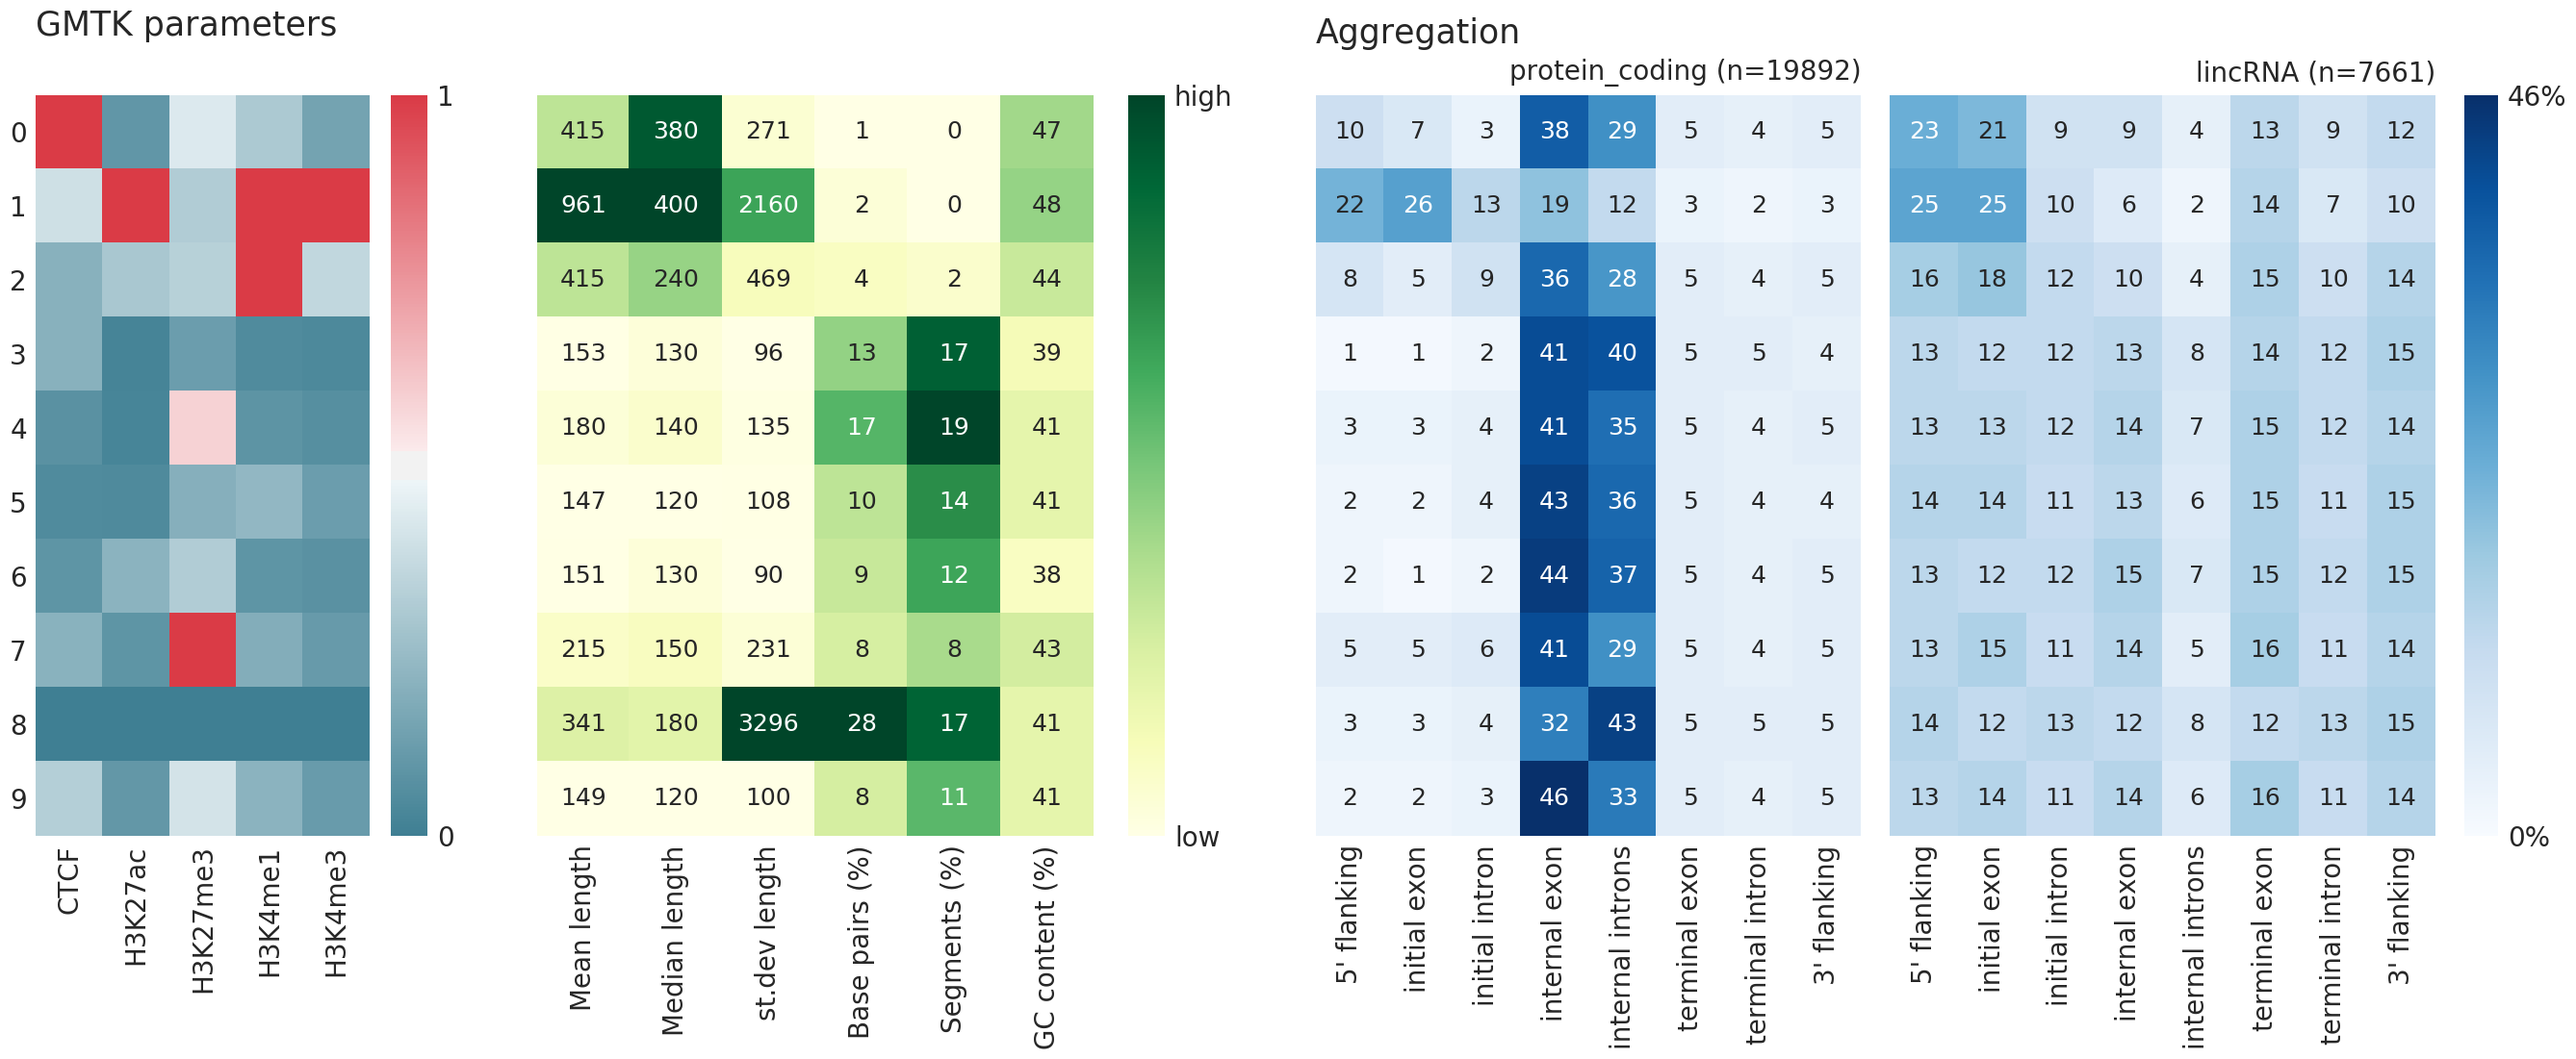
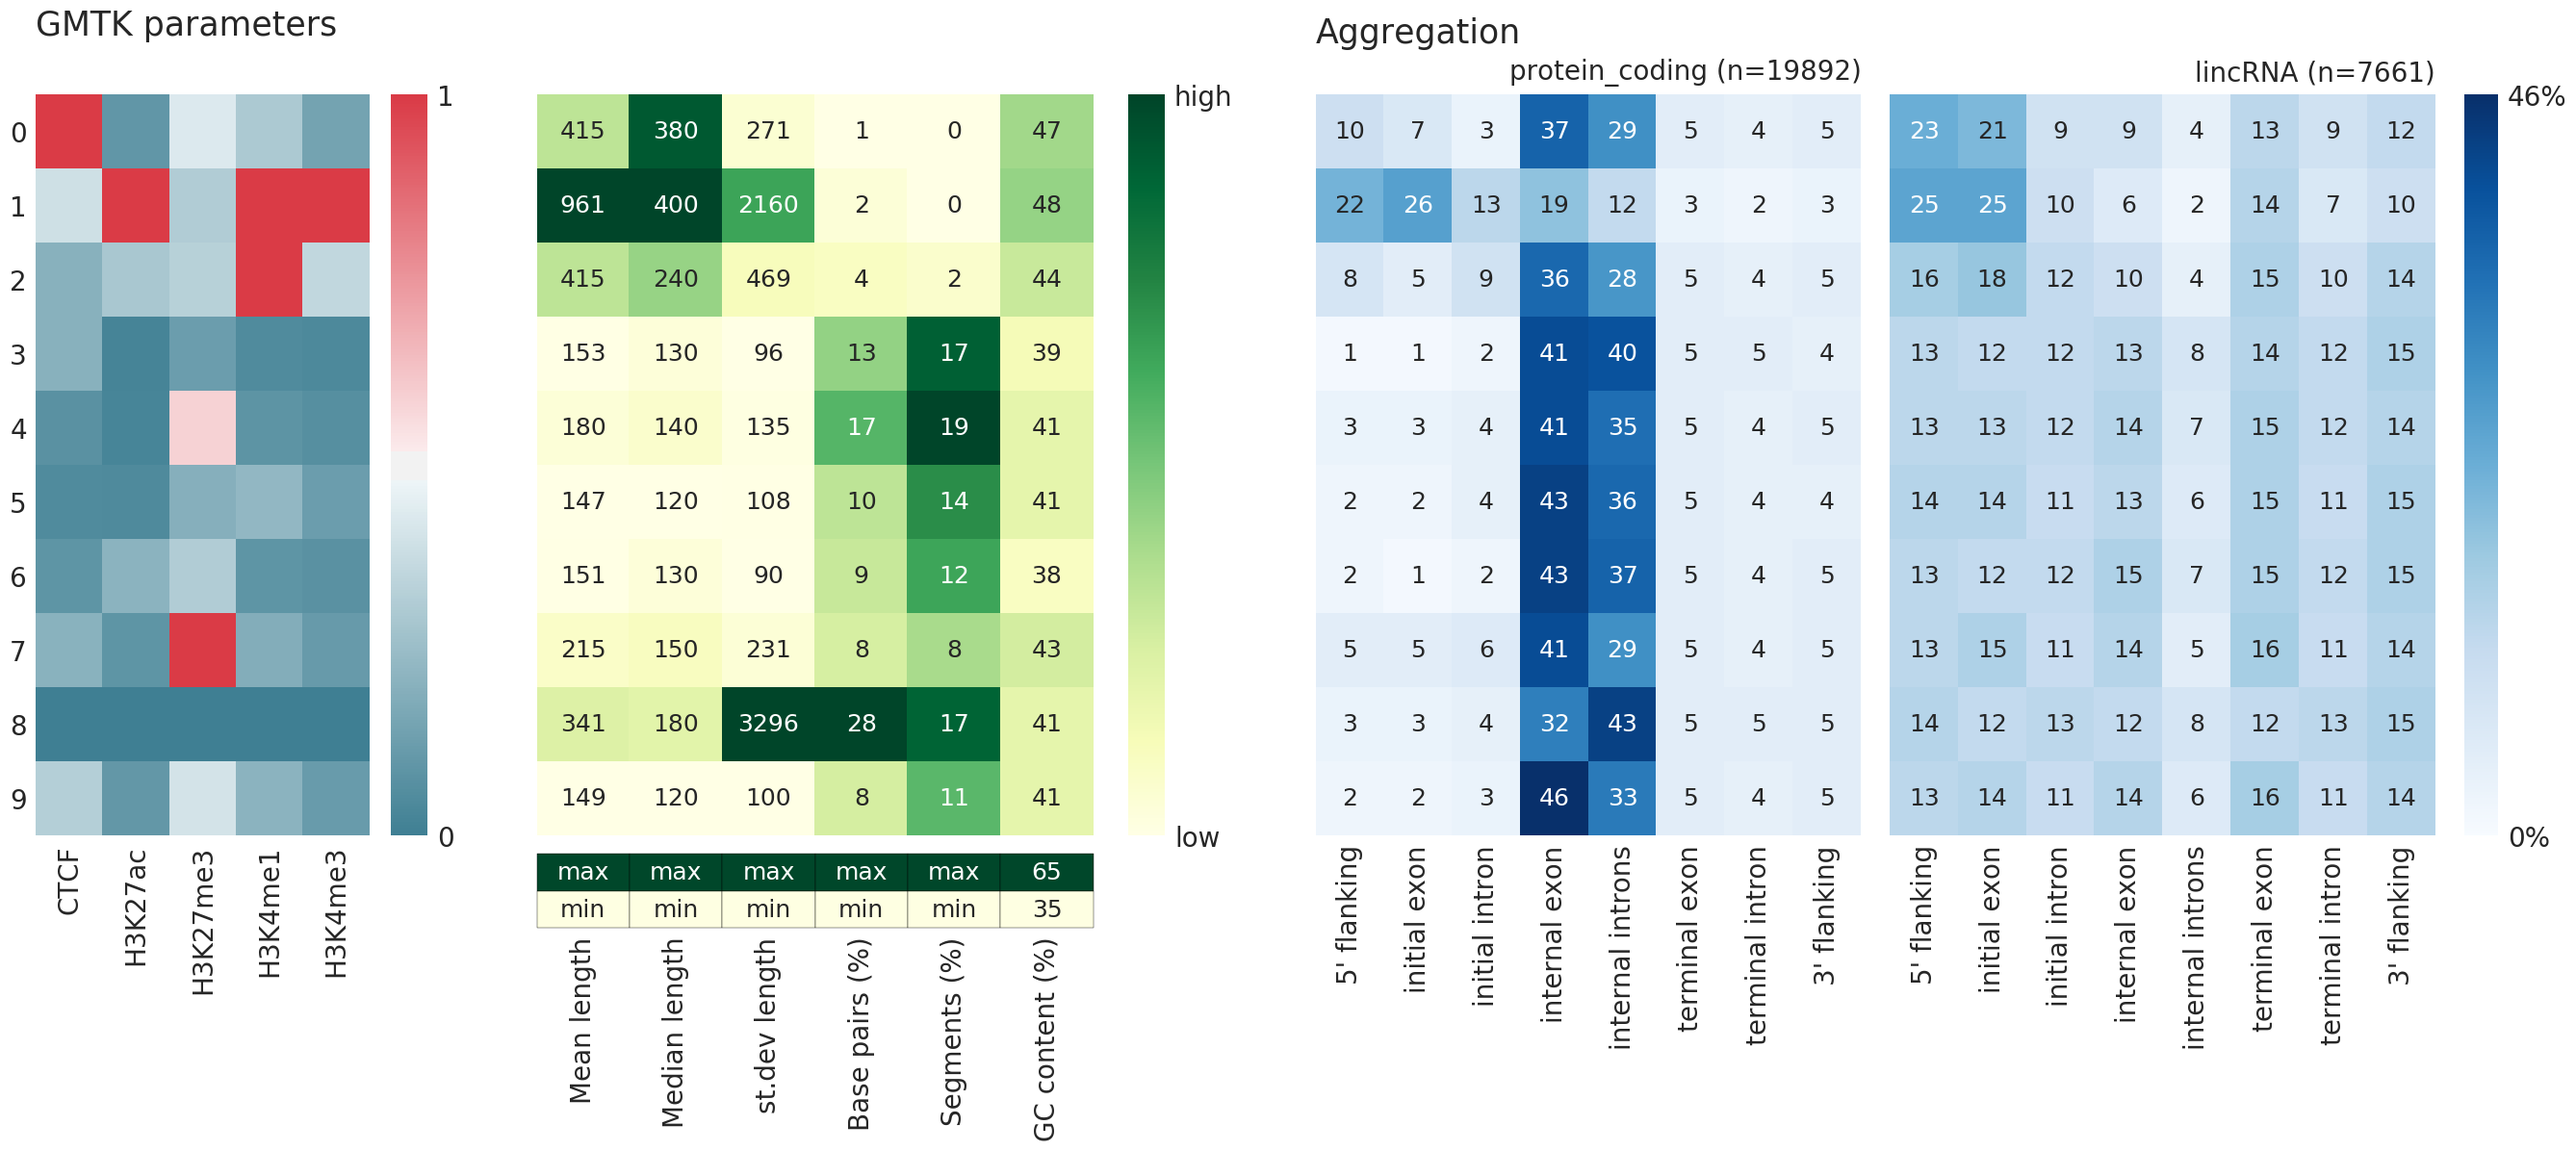
small fixes to visualization and readme, and added new argument download-only

diff --git a/segzoo/main.py b/segzoo/main.py
@@ -19,6 +19,7 @@ def main(args=sys.argv[1:]):
     '''
 
     parser = argparse.ArgumentParser(description=description, formatter_class=argparse.ArgumentDefaultsHelpFormatter)
+
     parser.add_argument('--version', action='version', version=__version__)
     parser.add_argument('segmentation', help='.bed.gz file, the segmentation/annotation output from Segway')
     parser.add_argument('--parameters', default=False,
@@ -28,9 +29,16 @@ def main(args=sys.argv[1:]):
     parser.add_argument('--species', default='Homo_sapiens', help='Species of the genome used for the segmentation')
     parser.add_argument('--build', default='hg38', help='Build of the genome assembly used for the segmentation')
     parser.add_argument('--prefix', default=default_prefix,
-                        help='Prefix where all the GGD data is going to be downloaded, followed by /share/ggd/SPECIES/BUILD')
+                        help='Prefix where all the external data is going to be downloaded, followed by /share/ggd/SPECIES/BUILD')
+    parser.add_argument('--download-only', action='store_true',
+                        help='Execute only the rules that need internet connection, which store data in a shared directory')
 
     parsed_args = parser.parse_args(args)
 
-    snakemake.snakemake(path.join(here, "Snakefile"), cores=parsed_args.j, config=vars(parsed_args), printreason=True)
-    # dryrun=True, printshellcmds=True, printreason=True)
+    if parsed_args.download_only:
+        snakemake.snakemake(path.join(here, "Snakefile"), targets=["download_targets"], cores=parsed_args.j, config=vars(parsed_args))
+
+    else:
+        snakemake.snakemake(path.join(here, "Snakefile"), cores=parsed_args.j, config=vars(parsed_args))
+
+    # printreason=True, dryrun=True, printshellcmds=True)

diff --git a/segzoo/visualization.py b/segzoo/visualization.py
@@ -33,8 +33,8 @@ TITLE_FONTSIZE = 25 * FONT_SCALE / 1.5
 # Table options and properties
 TABLE_POS = "bottom"  # top / bottom / other to ommit
 TABLE_HEIGHT = 1  # relative to the height of 2 rows from the mix matrix
-TABLE_CONTENT = [['max', 'max', 'max', 'max', 'max', 0.65],
-                 ['min', 'min', 'min', 'min', 'min', 0.35]]
+TABLE_CONTENT = [['max', 'max', 'max', 'max', 'max', 65],
+                 ['min', 'min', 'min', 'min', 'min', 35]]
 
 # Color maps for the visualization
 cmap_gmtk = sns.diverging_palette(220, 10, as_cmap=True)
@@ -55,10 +55,10 @@ def nucleotide():
     res_nuc_ann = res_nuc_ann.rename('GC content (%)')
 
     # Interpolation of the parameters to rescale them between vmin and vmax for the heatmap
-    vmax = 0.65
-    vmin = 0.35
+    vmax = 65
+    vmin = 35
     res_nuc_hm = res_nuc_ann.copy()
-    res_nuc_hm = ((res_nuc_hm / 100 - vmin) / (vmax - vmin)).clip(0, 1)
+    res_nuc_hm = ((res_nuc_hm - vmin) / (vmax - vmin)).clip(0, 1)
 
     return res_nuc_hm, res_nuc_ann
 

diff --git a/README.md b/README.md
@@ -2,17 +2,17 @@
 
 ## What is segzoo?
 
-Segzoo is a tool that allows to run various genomic analysis on a segmentation obtained with Segway.
+Segzoo is a tool that allows to automatically run various genomic analysis on a segmentation obtained with Segway.
 The results of each analysis are made available as well as a summarizing visualization of the results.
-The requirements for this tool include segtools, bedtools and python packages, but all of them are dependencies that will be treated during installation.
+The requirements for this tool include segtools, bedtools and python packages, but all of them are dependencies that will be taken care of during installation.
 
 ## Quick start
 
 This quick start needs you to have anaconda already installed in your local computer (either with python 2 or 3).
 
 1. Download the test [segmentation](https://segway.hoffmanlab.org/2018/protocol/trackhub/hg38/segway.bed.gz) and [GMTK parameters](https://segway.hoffmanlab.org/2018/protocol/params/params.params) and move them both in a directory called, for example, `segzoo`
-2. Open a terminal in the mentioned directory and run `conda create -c bioconda -n python3_env python=3.6 r-base r-latticeextra r-reshape2 r-cairo r-cluster bedtools -y`
-3. After the last command has finished, run `source activate python3_env` followed by `pip install segzoo`
+2. Open a terminal in the mentioned directory and run `conda create -c bioconda -n python3 python=3.6 r-base r-latticeextra r-reshape2 r-cairo r-cluster bedtools -y`
+3. After the last command has finished, run `source activate python3` followed by `pip install segzoo`
 4. When finished, run `segzoo segway.bed.gz --parameters params.params`
 5. After around 30 min, the resulting visualization will be stored in the current's directory `outdir/plots` folder
 
@@ -28,7 +28,9 @@ Next, you need to activate this environment. Run `source activate python3` speci
 Now that you already are in it, you can install segzoo. You can do that by running `pip install segzoo`,
 which will require you to have bedtools already installed, as it's only in anaconda.
 To install bedtools beforehand you can use `conda install -c bioconda bedtools`.
-//Another option is to install segzoo using `conda install -c bioconda segzoo` which will take care of all the dependencies.
+
+*Note*: currently it's being worked on uploading Segzoo to bioconda.
+When this is finished it will be possible to install it just by using `conda install -c bioconda segzoo` which will take care of all the dependencies.
 
 After accepting all installations, segzoo will be good to go!
 
@@ -42,9 +44,11 @@ To access the help to know how to run segzoo you can run `segzoo -h` or `segzoo 
 - `-o` or `--outdir` to specify the folder where all the results and the final visualization will be created (default: outdir)
 - `-j` to specify the number of cores to use (default: 1)
 - `--species` and `--build` specify the species and the build for which the segmentation was created (default: Homo_sapiens and hg38)
+- `--download-only` is an option to support cluster use. Running Segzoo using this argument will only run the downloading rules of the pipeline, and store the data in using the specified prefix. After that, runs on nodes without internet access can be done by specifying that same prefix
 
 If you are interested in obtaining information on different gene biotypes than *protein coding and lincRNA*, which are the default,
 you can get to the installation folder of segzoo and modify the file `gene_biotypes.py` as you wish.
+The same can be said for the final visualization, which can be altered by modifying some variables on top of `visualization.py`
 
 After running the command `segzoo` by specifying the segmentation file and all the optional arguments that you want, the execution of the pipeline will begin.
 All necessary data will be downloaded, tools will run the different analysis and the final visualization will be created. This execution may take some time.
@@ -58,9 +62,11 @@ Finally, the visualization will be in the **plots** directory. It will look some
 
 ![Plot](https://bitbucket.org/hoffmanlab/segzoo/raw/default/plots/plot.png)
 
-The y-axis are the labels of the segmentation for all the heatmaps.
+The y-axis are the labels of the segmentation for all the heatmaps, while the x-axis are the different results obtained for each of them.
 
-### Notes
-- The *mix* table (the second one to the left) has each column normalized so that the maximum and minimum values are the limits of the heatmap. This applies to all but the GC content, which is normalized between 0.35 and 0.65. All this information will be displayed in the near future in a table.
-- The aggregation tables are shown in the same order as specified in `gene_biotypes.py`, and can contain duplicates.
-- The aggregation results displayed are the percentage of aggregations in one component in comparison to all the gene biotype, so notice that each row adds up to 100.
+- In the left there are the learned parameters during the training of Segway.
+- Next, a heatmap that has each different column normalized so that the maximum and minimum values are the limits of the color map used.
+This applies to all but the GC content, which is normalized between 35% and 65% always. All this information is displayed in the table below
+- The aggregation tables are shown in the same order as specified in `gene_biotypes.py`, and can contain duplicates
+- The aggregation results displayed for each label are the percentage of counts in one component in comparison to all the idealized gene, so notice that each row adds up to 100
+- The number of genes found for each biotype shown is specified after the biotype's name
